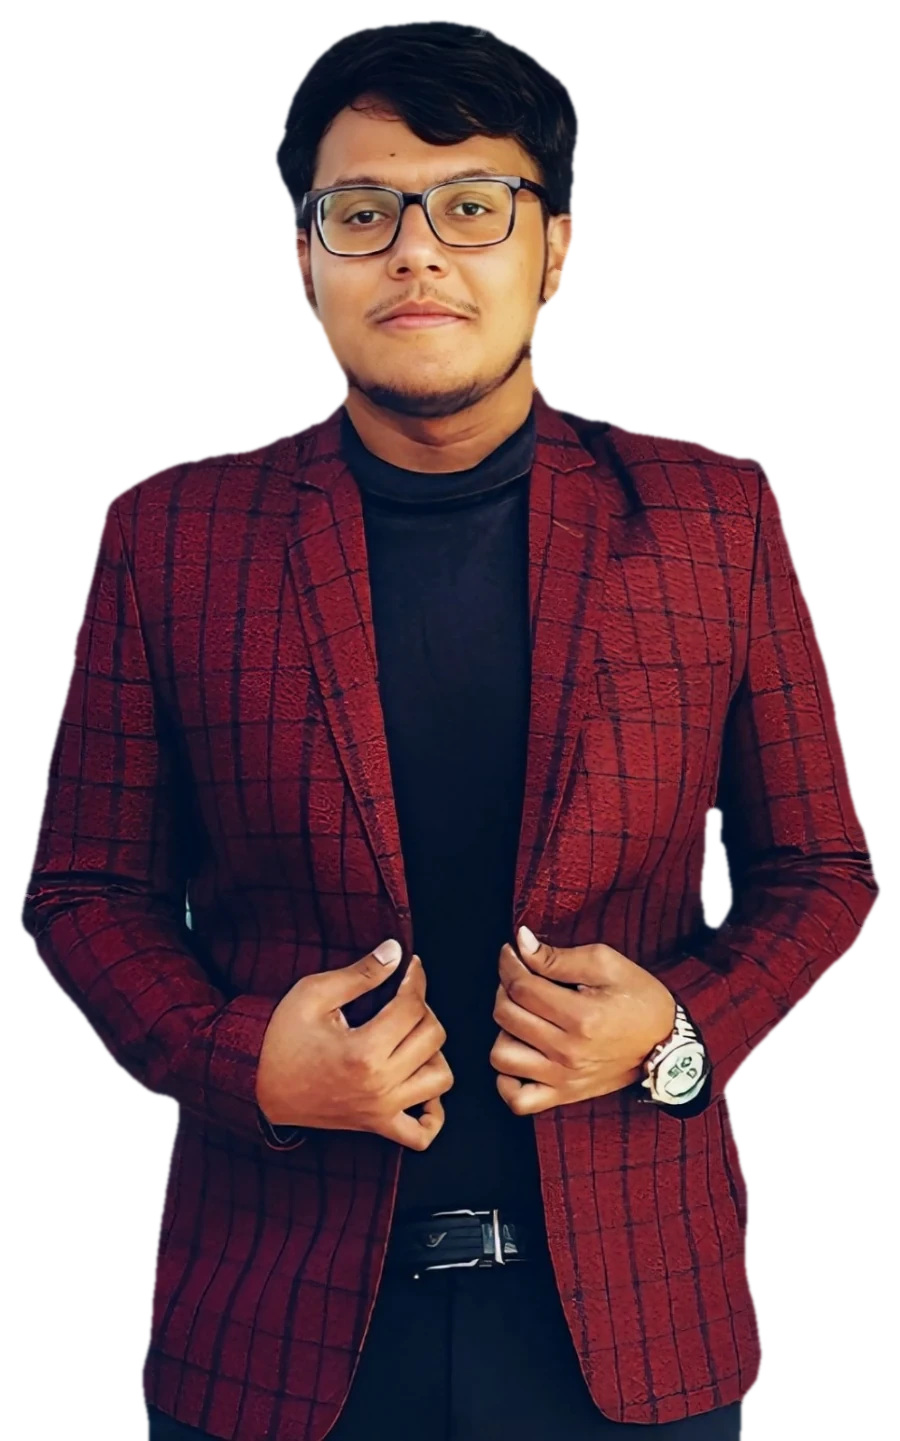
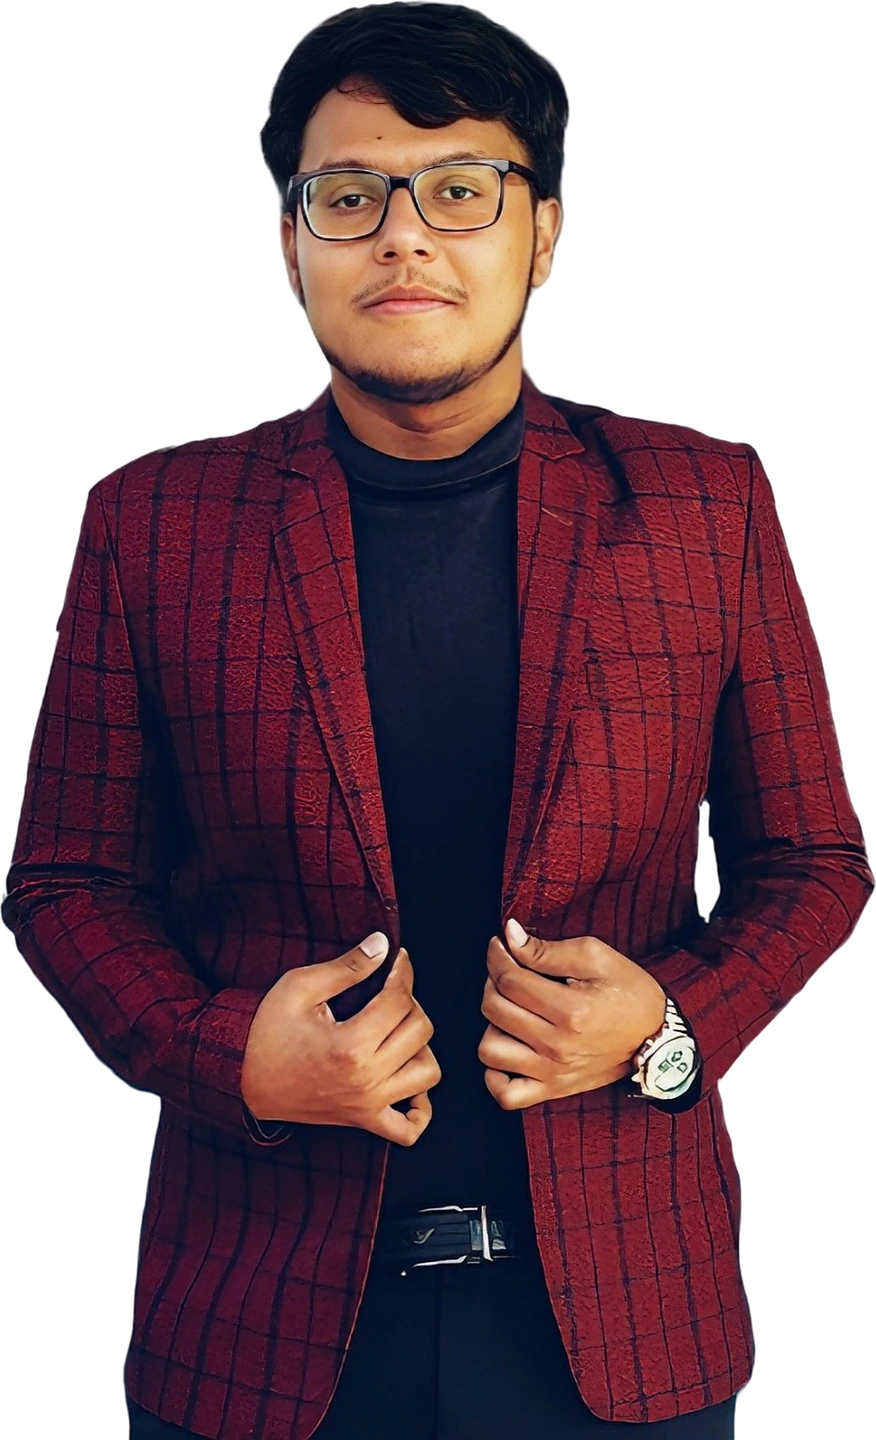
Sharper cutout: 4K hero/intro photo, cleaner hair edge, no halo ringing
Re-cut from the full-res source with the face pixels untouched, removed edge
fleck and unsharp ringing, exported 2336x3840 WebP for hero/intro and a
876x1440 WebP for the 360 ring and resume.

Claude-Session: https://claude.ai/code/session_011Q1R4WLmm4jk6DP5xBPdXr

Changed region(s): [[0.0, 0.0, 1.0, 1.0]]

diff --git a/about.html b/about.html
@@ -54,7 +54,7 @@
         <div class="ring-scene" tabindex="0" role="group" aria-roledescription="carousel" aria-label="360 degree view. Use left and right arrow keys to rotate.">
           <div class="ring">
           <div class="ring-panel" data-label="Akibur Rahman" style="--i:0">
-            <img class="ring-photo" src="./assets/profile-cutout.webp?v=2" alt="Akibur Rahman" width="900" height="1441" loading="lazy" />
+            <img class="ring-photo" src="./assets/profile-cutout.webp?v=3" alt="Akibur Rahman" width="876" height="1440" loading="lazy" />
             <div class="ring-tag"><div class="ring-title">Akibur Rahman</div><div class="ring-text">CSE · Cyber security</div></div>
           </div>
           <div class="ring-panel" data-label="Cyber security" style="--i:1">

diff --git a/index.html b/index.html
@@ -20,7 +20,7 @@
       <h1 class="intro-name" aria-label="Akibur Rahman"><span class="nm-a" aria-hidden="true">Akibur</span><span class="nm-gap" aria-hidden="true"></span><span class="nm-b" aria-hidden="true">Rahman</span></h1>
     </div>
     <div class="intro-photo-wrap">
-      <img class="intro-photo" src="./assets/profile-cutout.webp?v=2" alt="Akibur Rahman" width="900" height="1441" />
+      <img class="intro-photo" src="./assets/profile-cutout-4k.webp?v=3" alt="Akibur Rahman" width="2336" height="3840" decoding="async" />
     </div>
     <a class="btn btn-play intro-play" href="browse.html" data-play><span class="icon-play" aria-hidden="true"></span>Play now</a>
   </section>

diff --git a/browse.html b/browse.html
@@ -41,7 +41,7 @@
 
   <main>
     <section class="billboard" aria-label="Featured">
-      <img class="billboard-photo" src="./assets/profile-cutout.webp?v=2" alt="Akibur Rahman" width="900" height="1441" />
+      <img class="billboard-photo" src="./assets/profile-cutout-4k.webp?v=3" alt="Akibur Rahman" width="2336" height="3840" decoding="async" />
       <div class="billboard-body">
         <h1 class="billboard-title"><span class="ln">Akibur</span><br /><span class="ln">Rahman</span></h1>
         <div class="billboard-meta">

diff --git a/resume.html b/resume.html
@@ -51,7 +51,7 @@
         <div class="card resume-head">
           <div class="resume-id">
             <div class="avatar-frame">
-              <img src="./assets/profile-cutout.webp" alt="Akibur Rahman" class="resume-avatar" />
+              <img src="./assets/profile-cutout.webp?v=3" alt="Akibur Rahman" class="resume-avatar" />
             </div>
             <div>
               <h2 class="resume-name">Akibur Rahman</h2>
